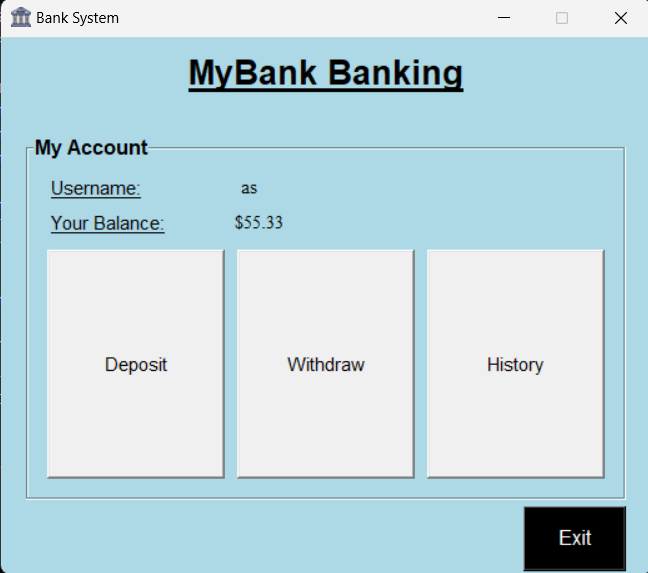
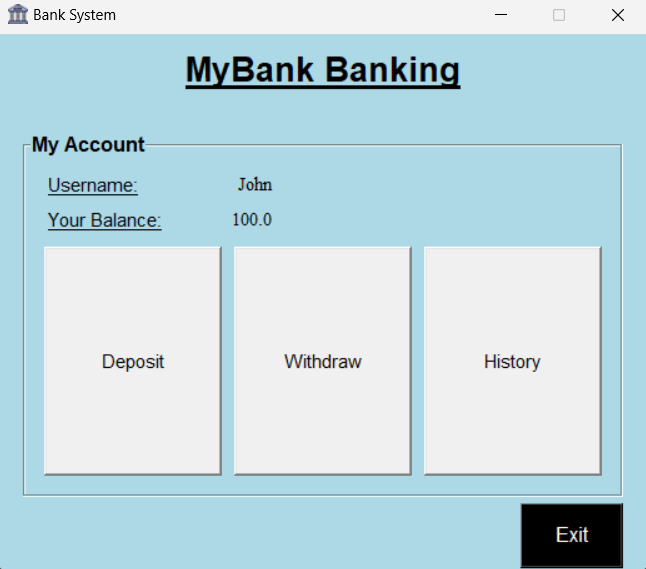
Updated Syntax Error

diff --git a/main.py b/main.py
@@ -165,7 +165,7 @@ class BankPage(Window):
         
         Label(label_frame, text = "Your Balance:", font = ("Poppins", 11, "underline"), bg = "#ADD8E6").grid(row = 1, column = 0, padx = 5, pady = 5, sticky = "w")
         global balance
-        balance = Label(label_frame, text = f"${self.account_information[5]}", font = ("Times", 11), bg = "#ADD8E6")
+        balance = Label(label_frame, text = f"${self.account_information[4]}", font = ("Times", 11), bg = "#ADD8E6")
         balance.grid(row = 1, column = 1, pady = 5, sticky = "w")
 
         Button(label_frame, text = "Deposit", font = ("Poppins", 11), width = 20, height = 10, command = lambda: self.withdraw_page(DepositPage)).grid(row = 2, column = 0, rowspan = 3, padx = 5, pady = 5, sticky = "news")
